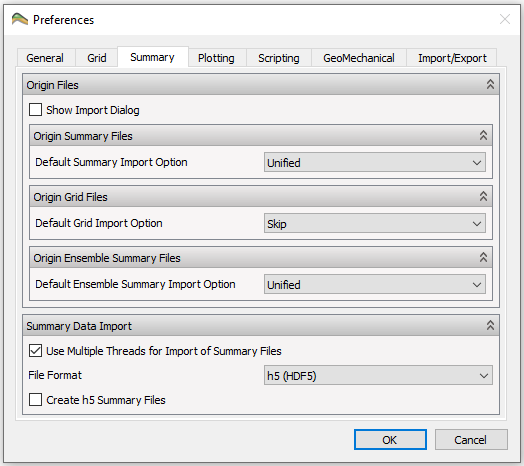
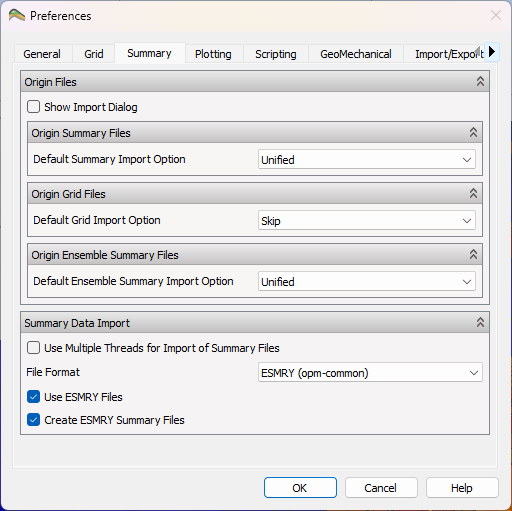
Added Best Practices

diff --git a/content/best-practices/SummaryData.md b/content/best-practices/SummaryData.md
@@ -1,0 +1,16 @@
++++
+title = "Summary Data Import"
+published = true
+weight = 20
++++
+
+## Summary Data
+Summary data is usually available as **SMSPEC** and **UNSRMY** files. Data in **UNSMRY** files are store in a binary format, and all data for one time step is stored one section. When extracting data for all time steps for a single summary vector, data must be read from multiple sections. This can give bad performance for large datasets.
+
+### ESMRY File Format
+
+**\*.ESMRY** files contains the same data as **SMSPEC/UNSMRY**. The data in these files store all data for a summary vector in one section to give significantly better performance when accessing single summary vectors compared to **SMSPEC/UNSMRY**.
+
+**ResInsight** will by default use this file format.
+
+If no **ESMRY** files are available, **ResInsight** can produce these files. This can be configured in [Preferences]({{< relref "preferences" >}}#summary). Note that all summmary data is read and write into a new **ESMRY** file. This operation will take some time, and can take minutes for a large ensemble.

diff --git a/content/import/EclipseSummaryData.md b/content/import/EclipseSummaryData.md
@@ -41,11 +41,9 @@ The name of a summary case can be changed by interactive edit of the name in the
 
 ## Summary Data File Formats
 
-**ResInsight** is able to import summary data in three file formats. Default exported by *Eclipse* is **\*.SMSPEC/.UNSMRY**. In addition, *Eclipse* can export into **\*.h5** for improved performance.
+**ResInsight** is able to import summary data in several file formats. Default exported by *Eclipse* is **\*.SMSPEC/.UNSMRY**. 
 
-For best performance, **ResInsight** has support for **\*.ESMRY** file format. **ResInsight** is able to produce this file format based on **\*.SMSPEC/UNSMRY** files.
-
-See configuration in [Eclipse Summary Preferences]({{< relref "preferences#eclipse-summary" >}}).
+For best performance, consider using the [ESMRY File Format]({{< relref "summarydata" >}}).
 
 ### SMSPEC/UNSMRY File Format
 

diff --git a/content/misc/Preferences.md b/content/misc/Preferences.md
@@ -56,9 +56,9 @@ When changing the preferences, any default color, font or Z-scale Factor that ha
 
 - **Origin Files**: c.f. [Origin Files]({{< relref "eclipsesummarydata#origin-files" >}}) for details.
 - **Summary Data Import** including file format for summary data import, c.f. [Ensemble Summary]({{< relref "eclipsesummarydata#summary-data-file-formats" >}}):
-  - **h5 (HDF5)** Import data from h5 files
-  - **UNSMRY (libecl)** Import data from native UNSMRY files
   - **ESMRY (opm-common)** Import data from ESMRY files
+  - **UNSMRY (libecl)** Import data from native UNSMRY files
+  - **h5 (HDF5)** Import data from h5 files
 
 
 ## Plotting

diff --git a/content/best-practices/_index.md b/content/best-practices/_index.md
@@ -1,7 +1,7 @@
 +++
-title = "Workflows"
+title = "Best Practices"
 published = true
-weight = 95
+weight = 90
 +++
 
 ![ResInsight User Interface]({{< relref "" >}}images/getting-started/ResInsightUIMediumSize.png)
